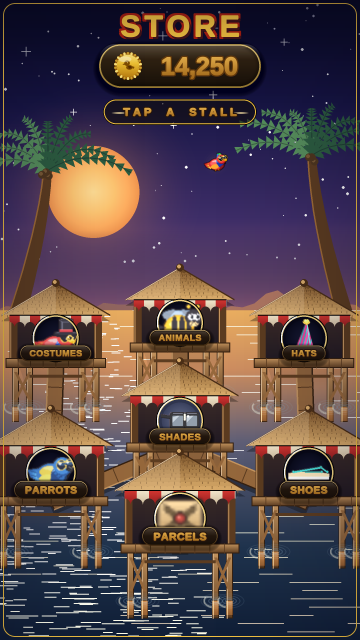
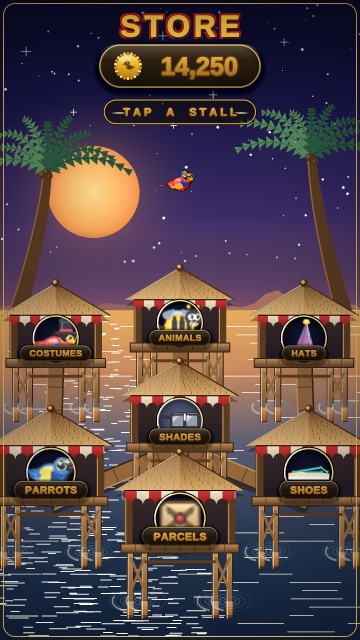
docs(store_bazaar): lagoon round-4 final polish (parcel read, Pip silhouette, ripple depth)
Claude-Session: https://claude.ai/code/session_01VWgQuAkvyxHkg8ghp6aQ5y

diff --git a/docs/store_bazaar/lagoon_stilt/render.py b/docs/store_bazaar/lagoon_stilt/render.py
@@ -466,11 +466,12 @@ def hut_reflection(surf, cx, deck_y, width, scale, horizon):
 # =============================================================================
 # Stilt hut — the market stall as an over-water thatched hut.
 # =============================================================================
-def draw_stilts(surf, cx, deck_y, half_w, post_len):
+def draw_stilts(surf, cx, deck_y, half_w, post_len, ring_scale=1.0):
     """The wooden posts the hut stands on, driven into the lagoon: four legs
     with cross-bracing, lit top-left, each with a contact ripple where it meets
     the water + a short submerged reflection. `post_len` is how far the posts
-    drop below the deck into the water."""
+    drop below the deck into the water. `ring_scale` widens the contact rings for
+    NEARER huts so closer water reads as a larger displacement (a depth cue)."""
     legs_x = [cx - half_w + m(6), cx - half_w + m(20),
               cx + half_w - m(20), cx + half_w - m(6)]
     water_y = deck_y + int(post_len * 0.74)
@@ -493,7 +494,7 @@ def draw_stilts(surf, cx, deck_y, half_w, post_len):
         # + a touch brighter, each foreshortened to a flat ellipse on the surface;
         # a small lifted-water crescent on the lit (top-left) edge sells the
         # meniscus where the timber breaks the surface.
-        rr = m(15)
+        rr = int(m(15) * ring_scale)
         rip = pygame.Surface((rr * 2 + m(2), rr + m(2)), pygame.SRCALPHA)
         rc = (rr + m(1), (rr + m(2)) // 2)
         rings = ((1.00, 30, 0.9), (0.74, 52, 1.0), (0.50, 78, 1.2), (0.30, 96, 1.3))
@@ -700,6 +701,39 @@ def draw_hut(surf, cx, deck_y, scale, group, label, hero=False):
     return half_w, roof_apex_y
 
 
+def _draw_parcel_padding(surf, cx, cy, dome_r):
+    """A padded-mailer body painted behind the real envelope icon so PARCELS
+    reads as a THICK 3D package, not a flat card: a rounded warm-kraft block,
+    slightly squarer-than-wide, with a BULGED lower edge (a soft brown belly arc)
+    that sells the stuffing, a lit top sheen, and a dark seated contour. Drawn in
+    the dome's own kraft family so the genuine icon (twine X + wax seal) sits on
+    top as the lit detail."""
+    KRAFT_HI = (196, 158, 108)
+    KRAFT = (168, 130, 84)
+    KRAFT_LO = (118, 88, 54)
+    bw = int(dome_r * 1.34)
+    bh = int(dome_r * 1.42)              # squarer/taller than the flat envelope
+    rect = pygame.Rect(cx - bw // 2, cy - bh // 2, bw, bh)
+    rad = int(dome_r * 0.28)
+    # seated contour first so the block sits in the glass well
+    sh = rect.inflate(m(4), m(4)); sh.move_ip(0, m(2))
+    pygame.draw.rect(surf, (14, 10, 6, 160), sh, border_radius=rad)
+    # kraft body — vertical gradient, lit top easing to shaded base
+    surf.blit(vgrad(rect.w, rect.h, rad, KRAFT_HI, KRAFT_LO), rect.topleft)
+    # the BULGED belly: a soft brown arc filling the lower third so the package
+    # reads as stuffed/rounded rather than a flat panel.
+    belly = pygame.Surface((rect.w, rect.h), pygame.SRCALPHA)
+    by = int(rect.h * 0.52)
+    pygame.draw.ellipse(belly, (*KRAFT, 150),
+                        (int(rect.w * 0.06), by,
+                         int(rect.w * 0.88), rect.h - by + int(rect.h * 0.20)))
+    surf.blit(belly, rect.topleft)
+    # lit top sheen + dark keyline so the padded block has volume + a defined edge
+    top_sheen(surf, rect, rad, rect.h // 3, peak=60)
+    pygame.draw.rect(surf, (40, 26, 14), rect, width=max(1, m(1.4)),
+                     border_radius=rad)
+
+
 def _place_thumb(surf, group, cx, cy, dome_r, hero):
     """Drop the category's REAL preview into the dome, contained (letterboxed)
     so aspect-extreme items (flip-flops, party hat) sit fully inside the glass
@@ -712,6 +746,14 @@ def _place_thumb(surf, group, cx, cy, dome_r, hero):
     # aspect-extreme items (flip-flops, party hat) still get a tighter contain
     # factor so the long axis stays fully inside the glass.
     box = dome_r * (1.62 if letterbox else 1.84)
+    # PARCELS' flat kraft mailer can be misread as a card/letter. Paint a PADDED
+    # body behind the real icon — a rounded warm-kraft block with a slightly
+    # bulged lower edge + soft top sheen — so the silhouette reads as a THICK 3D
+    # package, not a flat card. The genuine parcel_envelope icon still draws on
+    # top (twine X + wax seal), so it stays the real category content.
+    if group == "parcels":
+        box *= 0.86            # shrink the icon a hair so the padding shows around it
+        _draw_parcel_padding(surf, cx, cy, dome_r)
     s = box / max(w, h)
     img = pygame.transform.smoothscale(
         src, (max(1, int(w * s)), max(1, int(h * s))))
@@ -802,9 +844,11 @@ def draw_pip(surf, px, py):
     rim catch from the low sun so he separates from the sky without glowing."""
     # wings-up flap frame + a gentle left-bank tilt so he reads as in motion, not
     # a pasted sprite. The parrot art faces right; banking up-left toward the sun.
-    pip = parrot.get_parrot(0, 8.0)
+    # A shallow tilt keeps the wing spread horizontal so the macaw silhouette is
+    # unmistakable (not a kite/banner) against the indigo sky.
+    pip = parrot.get_parrot(0, 5.0)
     pw, ph = pip.get_size()
-    target = m(30)                       # distant flyer — clearly smaller than a hut dome
+    target = m(34)                       # distant flyer, but enough spread to read as a bird
     s = target / max(pw, ph)
     pip = pygame.transform.smoothscale(pip, (int(pw * s), int(ph * s)))
     pr = pip.get_rect(center=(px, py))
@@ -961,7 +1005,12 @@ def render_device():
         # posts drop from the deck into the water; deeper (lower) huts sit on
         # shorter posts since their deck is already near the waterline.
         post_len = max(m(26), int(m(70) * h["scale"]))
-        draw_stilts(surf, h["cx"], h["deck_y"], half_w, post_len)
+        # nearer (lower-on-canvas) huts get WIDER contact rings — closer water
+        # reads as a larger displacement, reinforcing depth. Mapped from the
+        # hut's deck fraction across the back row (~0.55) to the front (~0.86).
+        depth_t = max(0.0, min(1.0, (h["deck_y"] / DH - 0.55) / 0.31))
+        ring_scale = 1.0 + 0.45 * depth_t
+        draw_stilts(surf, h["cx"], h["deck_y"], half_w, post_len, ring_scale)
         draw_hut(surf, h["cx"], h["deck_y"], h["scale"], h["group"],
                  h["label"], hero=h["hero"])
         if h["hero"]:
@@ -972,9 +1021,10 @@ def render_device():
                        h["deck_y"] - int(m(16) * h["scale"]), h["scale"], True)
 
     # Pip flies in the upper sky in the open gutter between the sun (upper-left)
-    # and the right palm — below the TAP-A-STALL chip, above the back-row roofs,
-    # clear of the sun disc + the palm fronds, banking up-left toward the light.
-    draw_pip(surf, int(DW * 0.60), int(DH * 0.255))
+    # and the right palm — biased lower + left into clearer indigo so he's value-
+    # separated from the TAP-A-STALL chip's red star (avoids a red-Pip + red-star
+    # cluster up-right), above the back-row roofs, banking up-left toward the sun.
+    draw_pip(surf, int(DW * 0.50), int(DH * 0.285))
 
     draw_header(surf)
 

diff --git a/docs/store_bazaar/lagoon_stilt/notes.md b/docs/store_bazaar/lagoon_stilt/notes.md
@@ -1,6 +1,31 @@
 # LAGOON STILT-MARKET — store bazaar landing (round 4)
 
-## Round 4 — final polish pass (4 targeted fixes, round_3 kept as the "before")
+## Round 4 — SHIP-READY tightening (3 optional polish notes, overwrote round_4)
+The art-director gave round_4 VERDICT: SHIP-READY. These three non-blocking
+polish notes were folded into the SAME round_4 files (overwritten in place);
+nothing that was working regressed (capped-glow/no-white-aura verified by pixel
+sampling, PARCELS peer treatment, all 7 stalls, sun, header, reflections intact).
+
+1. **PARCELS now reads as a PARCEL without its label.** The flat kraft envelope
+   could be misread as a card/letter. Added `_draw_parcel_padding` — a PADDED
+   MAILER body painted behind the real `parcel_envelope` icon: a rounded warm-
+   kraft block (squarer/taller than the flat envelope) with a BULGED lower-edge
+   belly arc, a lit top sheen + dark seated keyline, so the silhouette reads as a
+   THICK 3D package. The genuine icon (twine X + red wax seal) still draws on top
+   (shrunk ~14% so the padding shows around it) — same cabochon style as the
+   other six, still real PARCELS category content.
+2. **Pip = "bird, not banner".** Bumped his size `m(30)→m(34)` and shallowed the
+   bank tilt `8°→5°` so the wing spread stays horizontal and the macaw silhouette
+   is unmistakable. Biased him lower + left (`0.60,0.255 → 0.50,0.285`) into
+   clearer indigo so he's value-separated from the TAP-A-STALL chip's red star
+   (no more red-Pip + red-star cluster up-right). Still the wings-up flap frame,
+   still a clean capped warm rim (no bloom).
+3. **Ripple depth cue.** `draw_stilts` gained a `ring_scale` arg; the call maps
+   each hut's deck fraction (back ~0.55 → front ~0.86) to `1.0→1.45`, so the
+   nearer front-row stilts (PARROTS / SHOES / PARCELS) get visibly WIDER contact
+   rings than the back row — closer water reads as larger displacement.
+
+## Round 4 — original polish pass (4 targeted fixes, round_3 kept as the "before")
 The round_3 lagoon was loved; this pass lands four specific craft fixes and
 saves to NEW files (`round_4.png` / `round_4@2x.png`) — round_3 is untouched.
 
